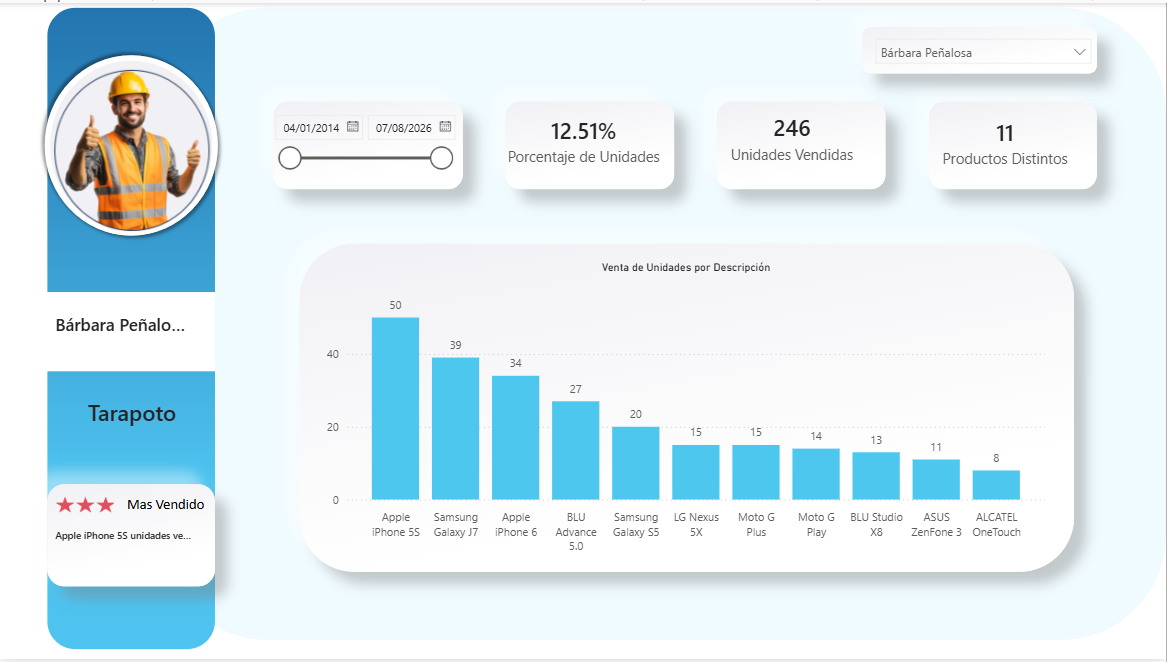
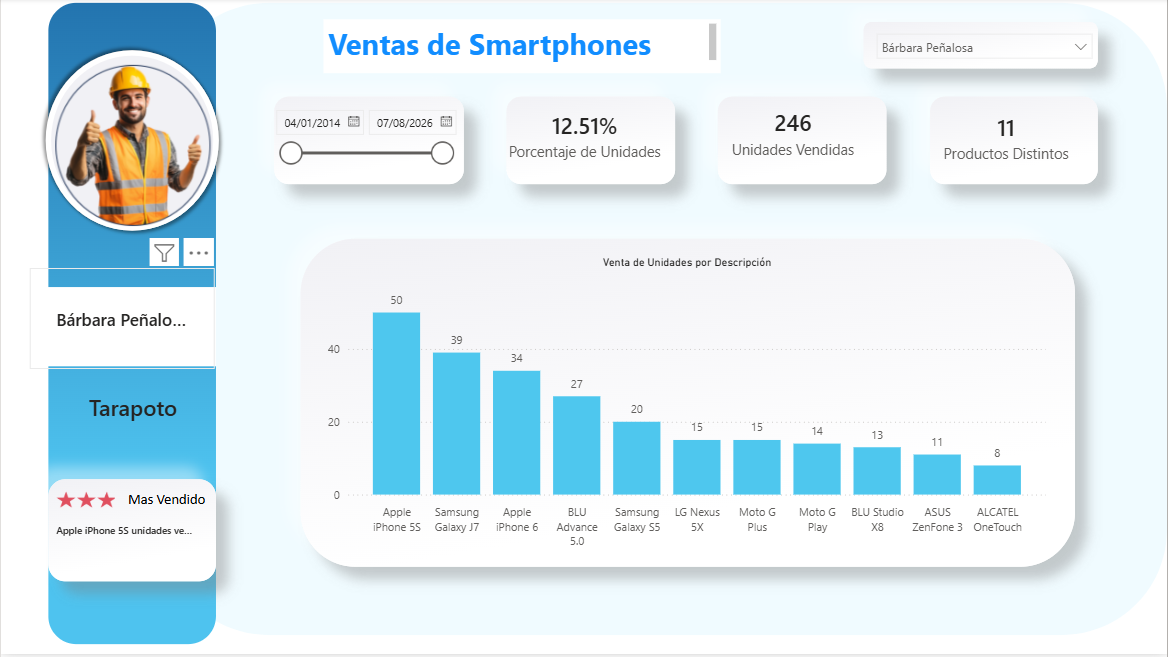
cambios
se implemento algunos cambios

diff --git a/src/modules/Home/Components/header.jsx b/src/modules/Home/Components/header.jsx
@@ -4,15 +4,14 @@ function Header() {
   const [menuOpen, setMenuOpen] = useState(false);
 
   return (
-    <header className="sticky top-0 z-50 w-full border-b-2 border-cyan-500 bg-[#07132c]/95 px-4 py-4 text-white backdrop-blur sm:px-6 md:px-8">
-      {" "}
+    <header className="sticky top-0 z-50 w-full border-b-2 border-cyan-500 bg-[#07132c]/95 px-4 py-5 text-white backdrop-blur sm:px-6 md:px-8">
       <div className="mx-auto flex max-w-7xl items-center justify-between">
-        <div className="text-xl font-black tracking-wide text-cyan-400 sm:text-2xl">
-          Data <span className="text-white">Analytics</span>
+        <div className="text-2xl font-black tracking-wide text-cyan-400 sm:text-3xl">
+          Data <span className="text-white">Analyst</span>
         </div>
 
-        <div className="hidden items-center gap-8 md:flex">
-          <nav className="flex items-center gap-6 text-base font-medium text-slate-300 lg:text-lg">
+        <div className="hidden items-center gap-10 md:flex">
+          <nav className="flex items-center gap-7 text-lg font-medium text-slate-300 lg:text-xl">
             <a
               href="#sobre-mi"
               className="transition-colors hover:text-cyan-400"
@@ -36,13 +35,13 @@ function Header() {
               href="#proyectos"
               className="transition-colors hover:text-cyan-400"
             >
-              proyectos
+              Proyectos
             </a>
           </nav>
 
           <a
             href="#contacto"
-            className="rounded-lg border border-cyan-400 bg-transparent px-4 py-2 text-sm font-semibold text-cyan-400 transition hover:bg-cyan-400 hover:text-slate-950"
+            className="rounded-lg border border-cyan-400 bg-transparent px-5 py-3 text-base font-semibold text-cyan-400 transition hover:bg-cyan-400 hover:text-slate-950"
           >
             Contacto
           </a>
@@ -63,7 +62,7 @@ function Header() {
       </div>
       {menuOpen && (
         <div className="mx-auto mt-3 max-w-7xl rounded-xl border border-cyan-500/40 bg-[#0d1d35] p-4 md:hidden">
-          <nav className="flex flex-col gap-3 text-base font-medium text-slate-200">
+          <nav className="flex flex-col gap-4 text-lg font-medium text-slate-200">
             <a
               href="#sobre-mi"
               className="transition-colors hover:text-cyan-400"
@@ -86,18 +85,11 @@ function Header() {
               Habilidades
             </a>
             <a
-              href="#habilidades"
-              className="transition-colors hover:text-cyan-400"
-              onClick={() => setMenuOpen(false)}
-            >
-              Habilidades
-            </a>
-            <a
               href="#proyectos"
               className="transition-colors hover:text-cyan-400"
               onClick={() => setMenuOpen(false)}
             >
-              proyectos
+              Proyectos
             </a>
             <a
               href="#contacto"

diff --git a/src/modules/about/About.jsx b/src/modules/about/About.jsx
@@ -1,19 +1,19 @@
 function About() {
   return (
-    <main className="bg-[#07132c] px-4 py-10 md:px-6">
+    <section className="bg-[#07132c] px-4 py-10 md:px-6">
       <section
         id="sobre-mi"
-        className="mx-auto max-w-[1200px] rounded-xl border border-slate-500/40 bg-[#1d2f42]/90 px-8 py-8 md:px-12 md:py-10"
+        className="mx-auto max-w-300 rounded-xl border border-slate-500/40 bg-[#1d2f42]/90 px-8 py-8 md:px-12 md:py-10"
       >
         <p className="mb-5 text-[0.75rem] font-bold uppercase tracking-[0.14em] text-cyan-400">
           ANALISTA DE DATOS
         </p>
 
-        <h1 className="mb-6 max-w-[1100px] text-3xl font-black leading-relaxed tracking-[-0.04em] text-white md:text-[3.2rem]">
+        <h1 className="mb-6 max-w-275 text-3xl font-black leading-relaxed tracking-[-0.04em] text-white md:text-[3.2rem]">
           Convierto datos en decisiones de negocio
         </h1>
 
-        <div className="max-w-[1100px] space-y-4 text-base leading-relaxed text-slate-300 md:text-[1.18rem]">
+        <div className="max-w-275 space-y-4 text-base leading-relaxed text-slate-300 md:text-[1.18rem]">
           <p>
             Soy Wilbert Chan, estudiante de Ingeniería en Sistemas apasionado
             por el Análisis de Datos y la Inteligencia de Negocios.
@@ -43,7 +43,7 @@ function About() {
           </a>
 
           <a
-            href="../../../public/cv/CV Wilbert Oliver analista (1).pdf"
+            href="/cv/CV%20Wilbert%20Oliver%20analista%20(1).pdf"
             download
             className="inline-flex items-center justify-center rounded-lg border border-slate-600 bg-slate-700 px-6 py-3 text-base font-semibold text-white transition hover:bg-slate-600"
           >
@@ -51,7 +51,7 @@ function About() {
           </a>
         </div>
       </section>
-    </main>
+    </section>
   );
 }
 

diff --git a/src/modules/data/data.jsx b/src/modules/data/data.jsx
@@ -2,7 +2,7 @@
 const projects = [
   {
     id: 1,
-    title: "🌍 Ventas Globales",
+    title: "Ventas Globales",
     description:
       "Dashboard en Power BI con análisis de ventas por año, región y producto. Incluye KPIs y tendencias de negocio.",
     image: "ventas_globales.png",
@@ -11,7 +11,7 @@ const projects = [
   },
   {
     id: 2,
-    title: "⚰ Mortalidad de Vida General",
+    title: "Mortalidad de Vida General",
     description:
       "Análisis demográfico y de salud global: población, esperanza de vida y mortalidad por continente.",
     image: "mortalidad.png",
@@ -20,7 +20,7 @@ const projects = [
   },
   {
     id: 3,
-    title: "🛒 TechStore México",
+    title: "TechStore México",
     description:
       "Dashboard de ventas por categoría, producto y estado. KPIs de desempeño comercial.",
     image: "techstore.png",
@@ -29,7 +29,7 @@ const projects = [
   },
   {
     id: 4,
-    title: "👥 Empleados",
+    title: "Empleados",
     description:
       "Análisis de personal: sueldo promedio, edad, evaluación y distribución por departamento y estado.",
     image: "empleados.png",
@@ -38,7 +38,7 @@ const projects = [
   },
   {
     id: 5,
-    title: "📱 Ventas de Smartphones",
+    title: "Ventas de Smartphones",
     description:
       "Dashboard en Power BI que analiza las ventas de distintos modelos de smartphones, mostrando métricas de unidades vendidas, porcentaje de participación y productos más vendidos.",
     image: "ventassmartphones.png",

diff --git a/src/modules/shared/contact.jsx b/src/modules/shared/contact.jsx
@@ -18,7 +18,7 @@ Correo: ${email}
 Mensaje:
 ${message}`;
 
-    window.location.href = `mailto:wilbert.chan@example.com?subject=${encodeURIComponent(
+    window.location.href = `mailto:chanucwilbertoliver@gmail.com?subject=${encodeURIComponent(
       subject,
     )}&body=${encodeURIComponent(body)}`;
 
@@ -43,7 +43,7 @@ ${message}`;
         <div className="grid gap-16 lg:grid-cols-[1.25fr_0.75fr]">
           <form
             onSubmit={handleSubmit}
-            className="rounded-[24px] border border-slate-600/80 bg-[#1b2948] p-8 md:p-12"
+            className="rounded-3xl border border-slate-600/80 bg-[#1b2948] p-8 md:p-12"
           >
             <h3 className="mb-8 text-2xl font-black">Envíame un mensaje</h3>
 
@@ -130,7 +130,7 @@ ${message}`;
 
             <div className="space-y-7">
               <a
-                href="mailto:wilbert.chan@example.com"
+                href="mailto:chanucwilbertoliver@gmail.com"
                 className="flex items-center gap-5 transition hover:text-cyan-400"
               >
                 <span className="text-3xl text-cyan-400">✉</span>

diff --git a/src/modules/trayectoria/trayectoria.jsx b/src/modules/trayectoria/trayectoria.jsx
@@ -15,7 +15,7 @@ const metrics = [
 
 function Trayectoria() {
   return (
-    <main
+    <section
       id="trayectoria"
       className="bg-[#07132c] px-6 py-14 text-white md:px-12 lg:px-16"
     >
@@ -31,7 +31,7 @@ function Trayectoria() {
         <section className="grid items-center gap-12 lg:grid-cols-[490px_1fr]">
           <div className="overflow-hidden rounded-[28px]">
             <img
-              src="../../../public/wilbert.jpg"
+              src="/wilbert.jpg"
               alt="Retrato de Wilbert Chan"
               className="h-[490px] w-full object-cover"
             />
@@ -73,7 +73,7 @@ function Trayectoria() {
           </div>
         </section>
       </div>
-    </main>
+    </section>
   );
 }
 
